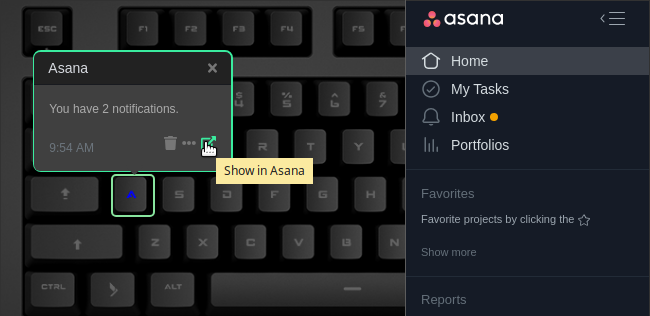
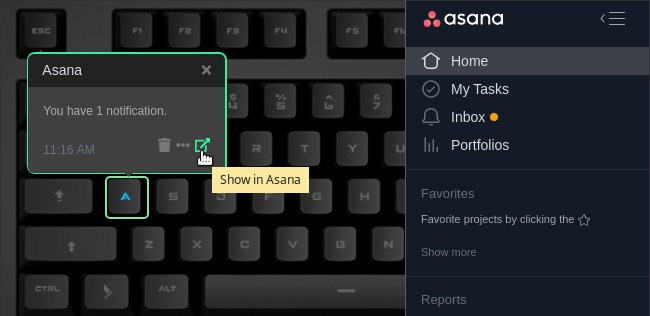
Details added before release.

Changed region(s): [[0.0, 0.0, 0.6462, 1.0], [0.5231, 0.9114, 0.5538, 0.9399]]

diff --git a/index.js b/index.js
@@ -6,7 +6,7 @@ const queryUrlBase = 'https://app.asana.com/api/1.0';
 function getTimestamp(date) {
   date = date || new Date();
   // Asana API docs say it accepts ISO-8601, but that doesn't actually work
-  return date.toISOString().substring(0,10);
+  return date.toISOString().substring(0, 10);
 }
 
 class Asana extends q.DesktopApp {
@@ -18,7 +18,7 @@ class Asana extends q.DesktopApp {
     // For checking tasks seen status
     this.tasksUpdated = {};
     // For checking plural or singular
-    this.notification ="";
+    this.notification = "";
   }
   async getMe() {
     const query = "/users/me";
@@ -38,37 +38,37 @@ class Asana extends q.DesktopApp {
       if (user.workspaces && user.workspaces.length) {
         const workspaceId = user.workspaces[0].id;
 
-          const query = `/workspaces/${workspaceId}/tasks/search`;
-          const proxyRequest = new q.Oauth2ProxyRequest({
-            apiKey: this.authorization.apiKey,
-            uri: queryUrlBase + query,
-            method: 'GET',
-            qs: {
-              'assignee.any': 'me',
-              'created_on.after': this.timestamp,
-              // 'completed': "false", // We want to get all tasks
-              'opt_fields': 'name,assignee.email,completed,assignee_status,modified_at',
-              'limit': 100
-            },
-          });
-          return (this.oauth2ProxyRequest(proxyRequest));
-        }
-      }).then(json => {
-        return json.data.filter(task => {
-          return (( this.tasksUpdated[task.id]!=task.modified_at) && (task.assignee_status === 'new' ||
-            task.assignee_status === 'inbox'));
+        const query = `/workspaces/${workspaceId}/tasks/search`;
+        const proxyRequest = new q.Oauth2ProxyRequest({
+          apiKey: this.authorization.apiKey,
+          uri: queryUrlBase + query,
+          method: 'GET',
+          qs: {
+            'assignee.any': 'me',
+            'created_on.after': this.timestamp,
+            // 'completed': "false", // We want to get all tasks
+            'opt_fields': 'name,assignee.email,completed,assignee_status,modified_at',
+            'limit': 100
+          },
         });
-
-      }).then(list => {
-        for (let task of list) {
-          // For updating tasks seen
-          // this.taskSeen[task.id]=1;
-
-          // For updating tasks updated
-          this.tasksUpdated[task.id]=task.modified_at;
-        }
-        return list;
+        return (this.oauth2ProxyRequest(proxyRequest));
+      }
+    }).then(json => {
+      return json.data.filter(task => {
+        return ((this.tasksUpdated[task.id] != task.modified_at) && (task.assignee_status === 'new' ||
+          task.assignee_status === 'inbox'));
       });
+
+    }).then(list => {
+      for (let task of list) {
+        // For updating tasks seen
+        // this.taskSeen[task.id]=1;
+
+        // For updating tasks updated
+        this.tasksUpdated[task.id] = task.modified_at;
+      }
+      return list;
+    });
   }
 
   async run() {
@@ -78,15 +78,15 @@ class Asana extends q.DesktopApp {
       if (newTasks && newTasks.length > 0) {
         logger.info("Got " + newTasks.length + " notification.");
 
-        if(newTasks.length==1){
-          this.notification="notification";
-        }else{
-          this.notification="notifications";
+        if (newTasks.length == 1) {
+          this.notification = "notification";
+        } else {
+          this.notification = "notifications";
         }
 
         return new q.Signal({
           points: [
-            [new q.Point("#0000FF",q.Effects.BLINK)]
+            [new q.Point("#0000FF", q.Effects.BLINK)]
           ],
           name: `Asana`,
           message: `You have ${newTasks.length} ${this.notification}.`,

diff --git a/README.md b/README.md
@@ -2,7 +2,12 @@
 
 Displays Asana premium account notifications on a Das Keyboard Q Series.
 
-![Asana on a Das Keyboard Q](assets/image.png "Q Asana")
+[GitHub repository](https://github.com/daskeyboard/daskeyboard-applet--asana)
+
+Asana is a work management platform.
+For more information about Asana visit <https://www.asana.com>.
+
+![Asana applet on a Das Keyboard Q](assets/image.png "Das Keyboard Asana applet")
 
 ## Changelog
 

diff --git a/README_ENDUSER.md b/README_ENDUSER.md
@@ -2,4 +2,7 @@
 
 Displays Asana premium account notifications on a Das Keyboard Q Series.
 
-![Asana on a Das Keyboard Q](assets/image.png "Q Asana")
+Asana is a work management platform.
+For more information about Asana visit <https://www.asana.com>.
+
+![Asana applet on a Das Keyboard Q](assets/image.png "Das Keyboard Asana applet")
